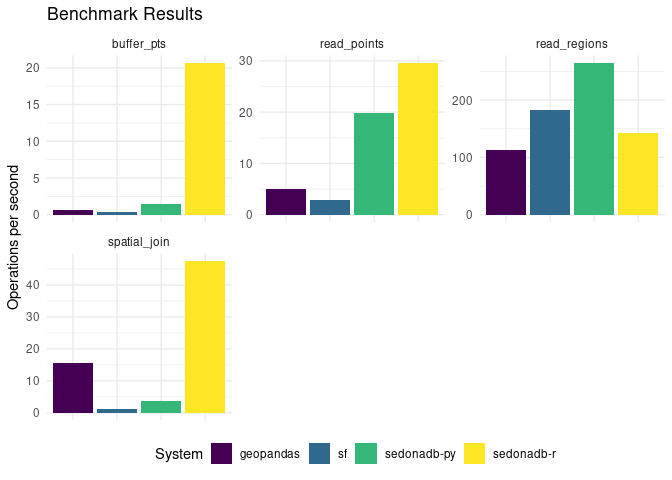
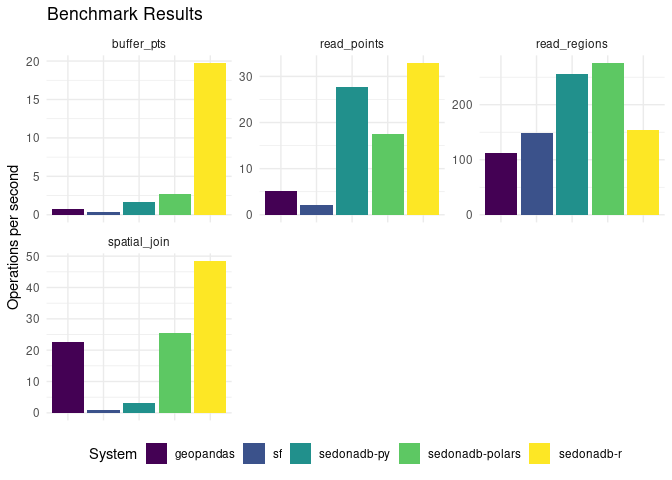
Add sedonadb-polars benchmark, showing significant speedup by avoiding Shapely conversion

diff --git a/scripts/bench_sedona_polars.py b/scripts/bench_sedona_polars.py
@@ -1,0 +1,82 @@
+import sedona.db
+import geopandas as gpd
+import time
+import pyarrow as pa
+import polars as pl
+
+print("Starting Python (sedona.db + Polars) Benchmarks [NZ]...")
+
+sd = sedona.db.connect()
+
+pts_gdf = gpd.read_file("nz.gpkg", layer="points", engine="pyogrio")
+regions_gdf = gpd.read_file("nz.gpkg", layer="regions", engine="pyogrio")
+
+def log_result(operation, time_sec):
+    ops_per_sec = 1 / time_sec if time_sec > 0 else 0
+    with open("results.csv", "a") as f:
+        f.write(f"sedonadb-polars,Python,{operation},{ops_per_sec:.2f}\n")
+
+def time_func(name, func, *args, **kwargs):
+    times = []
+    for _ in range(5):
+        start = time.time()
+        res = func(*args, **kwargs)
+        end = time.time()
+        times.append(end - start)
+    avg_time = sum(times) / len(times)
+    print(f"{name}: {avg_time:.4f} s (avg of 5)")
+    
+    key_map = {
+        "Load Points": "read_points",
+        "Load Regions": "read_regions",
+        "Spatial Join": "spatial_join",
+        "Buffer Points": "buffer_pts"
+    }
+    if name in key_map:
+        log_result(key_map[name], avg_time)
+    return res
+
+def clean_load_view(gdf, name):
+    temp_df = sd.create_data_frame(gdf)
+    table = temp_df.to_arrow_table()
+    clean_table = table.replace_schema_metadata(None)
+    final_df = sd.create_data_frame(clean_table)
+    final_df.to_view(name, overwrite=True)
+    return final_df
+
+time_func("Load Points", clean_load_view, pts_gdf, "points")
+time_func("Load Regions", clean_load_view, regions_gdf, "regions")
+
+# Ensure views
+clean_load_view(pts_gdf, "points")
+clean_load_view(regions_gdf, "regions")
+
+# Spatial Join
+geom_col = "geom" 
+if "geometry" in pts_gdf.columns: geom_col = "geometry"
+
+def run_query_polars(query):
+    # This is the optimization: return Polars DataFrame (keeps WKB/Binary)
+    arrow_table = sd.sql(query).to_arrow_table()
+    return pl.from_arrow(arrow_table)
+
+# Buffer
+buffer_query = f"SELECT ST_Buffer({geom_col}, 1000) as {geom_col} FROM points"
+try:
+    time_func("Buffer Points", run_query_polars, buffer_query)
+except Exception as e:
+    print(f"Error buffering: {e}")
+
+# Left Join Name
+query = f"""
+    SELECT p.{geom_col}, r."Name"
+    FROM points AS p
+    LEFT JOIN regions AS r ON ST_Intersects(p.{geom_col}, r.{geom_col})
+"""
+
+try:
+    time_func("Spatial Join", run_query_polars, query)
+except Exception as e:
+    print(f"Error join: {e}")
+
+print("Sedona Polars Benchmarks Complete.")

diff --git a/README.md b/README.md
@@ -41,23 +41,27 @@ ggplot() +
 
 Run on 100,000 points and 16 polygons (Regions).
 
-| system      | language | operation    | ops_per_sec |
-|:------------|:---------|:-------------|------------:|
-| sf          | R        | read_points  |        2.89 |
-| sf          | R        | read_regions |      183.16 |
-| sf          | R        | spatial_join |        1.12 |
-| sf          | R        | buffer_pts   |        0.35 |
-| geopandas   | Python   | read_points  |        4.97 |
-| geopandas   | Python   | read_regions |      112.48 |
-| geopandas   | Python   | buffer_pts   |        0.63 |
-| geopandas   | Python   | spatial_join |       15.65 |
-| sedonadb-py | Python   | read_points  |       19.82 |
-| sedonadb-py | Python   | read_regions |      264.77 |
-| sedonadb-py | Python   | buffer_pts   |        1.52 |
-| sedonadb-py | Python   | spatial_join |        3.71 |
-| sedonadb-r  | R        | read_points  |       29.61 |
-| sedonadb-r  | R        | read_regions |      142.42 |
-| sedonadb-r  | R        | buffer_pts   |       20.67 |
-| sedonadb-r  | R        | spatial_join |       47.52 |
+| system          | language | operation    | ops_per_sec |
+|:----------------|:---------|:-------------|------------:|
+| sf              | R        | read_points  |        2.02 |
+| sf              | R        | read_regions |      149.46 |
+| sf              | R        | spatial_join |        0.85 |
+| sf              | R        | buffer_pts   |        0.33 |
+| geopandas       | Python   | read_points  |        5.05 |
+| geopandas       | Python   | read_regions |      112.25 |
+| geopandas       | Python   | buffer_pts   |        0.74 |
+| geopandas       | Python   | spatial_join |       22.57 |
+| sedonadb-py     | Python   | read_points  |       27.68 |
+| sedonadb-py     | Python   | read_regions |      255.03 |
+| sedonadb-py     | Python   | buffer_pts   |        1.70 |
+| sedonadb-py     | Python   | spatial_join |        3.06 |
+| sedonadb-polars | Python   | read_points  |       17.59 |
+| sedonadb-polars | Python   | read_regions |      276.00 |
+| sedonadb-polars | Python   | buffer_pts   |        2.74 |
+| sedonadb-polars | Python   | spatial_join |       25.40 |
+| sedonadb-r      | R        | read_points  |       32.93 |
+| sedonadb-r      | R        | read_regions |      153.30 |
+| sedonadb-r      | R        | buffer_pts   |       19.76 |
+| sedonadb-r      | R        | spatial_join |       48.47 |
 
 ![](README_files/figure-commonmark/plot-results-1.png)